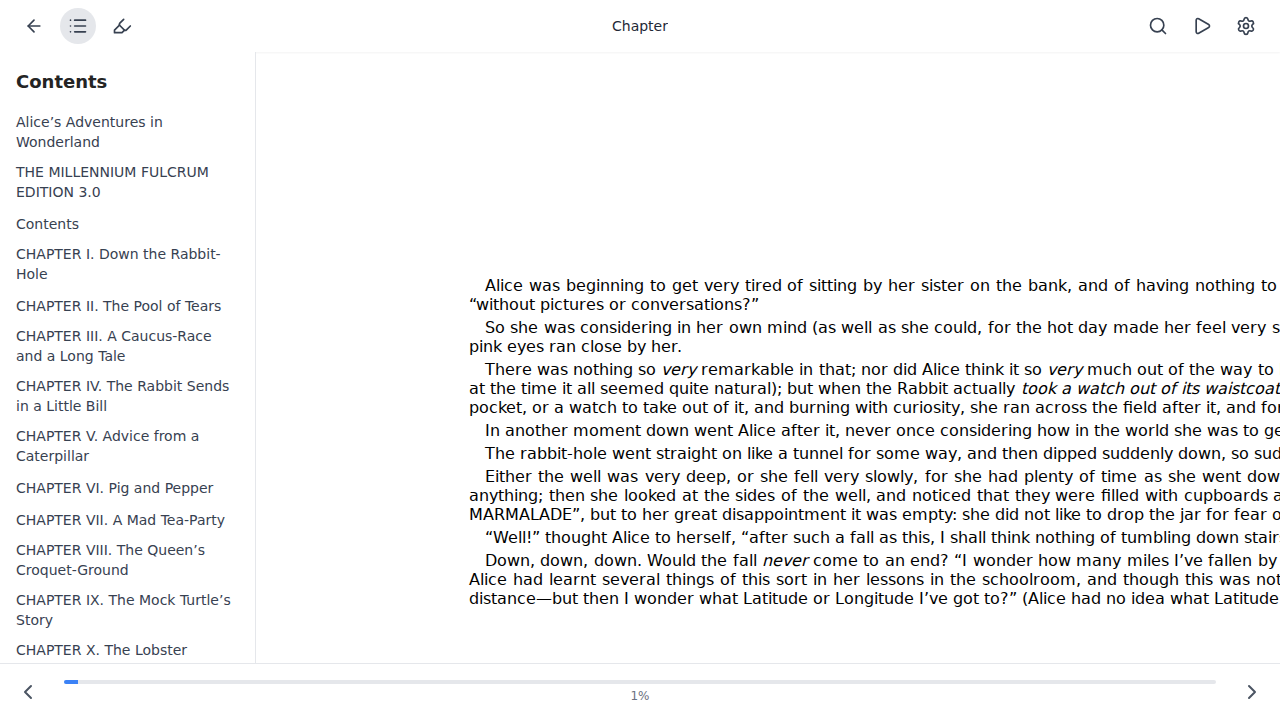
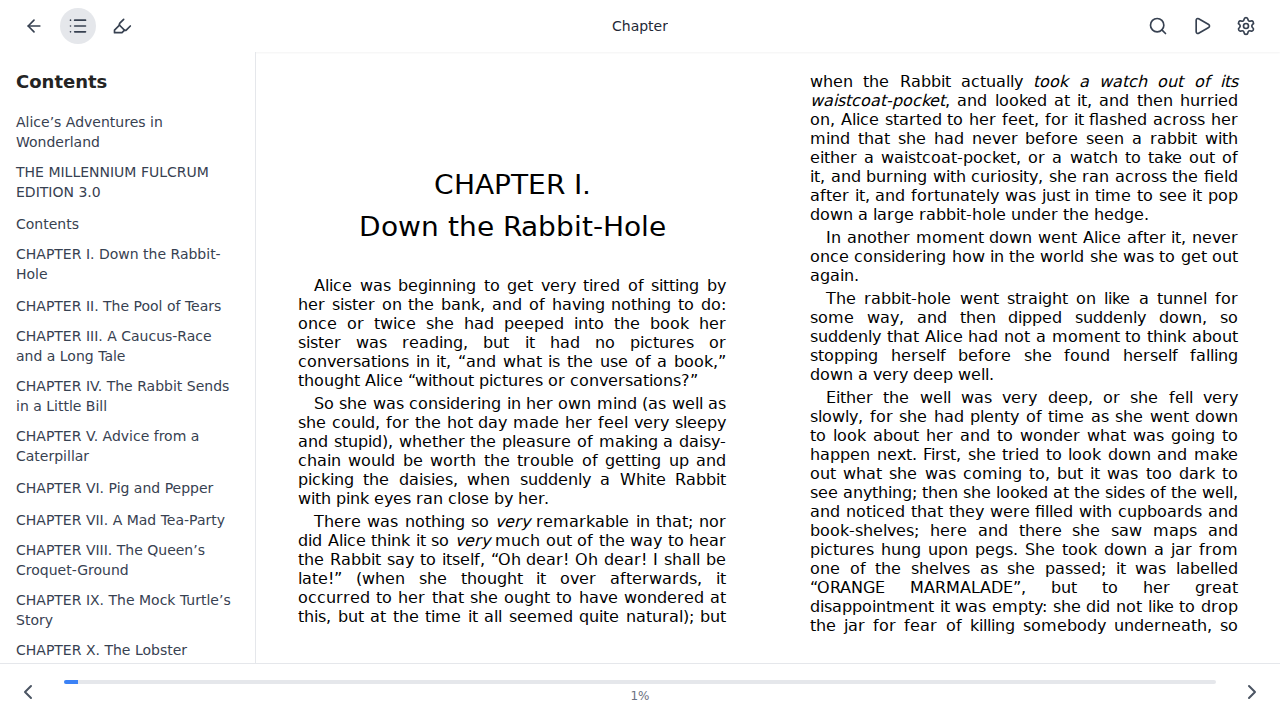
fix(reader): ensure container overflow is hidden
Added `overflow-hidden` to the reader container to prevent layout stretching issues where `epub.js` might calculate incorrect spreads or overflow the parent container. This ensures the reader respects the layout constraints.

Changed region(s): [[0.2188, 0.0917, 1.0, 0.8861], [0.2812, 0.3056, 0.5312, 0.3361], [0.3438, 0.2444, 0.4688, 0.275]]

diff --git a/src/components/reader/ReaderView.tsx b/src/components/reader/ReaderView.tsx
@@ -551,7 +551,7 @@ export const ReaderView: React.FC = () => {
 
          {/* Reader Area */}
          <div className="flex-1 relative">
-            <div ref={viewerRef} className="w-full h-full" />
+            <div ref={viewerRef} className="w-full h-full overflow-hidden" />
 
              <AnnotationPopover bookId={id || ''} onClose={handleClearSelection} />
 
